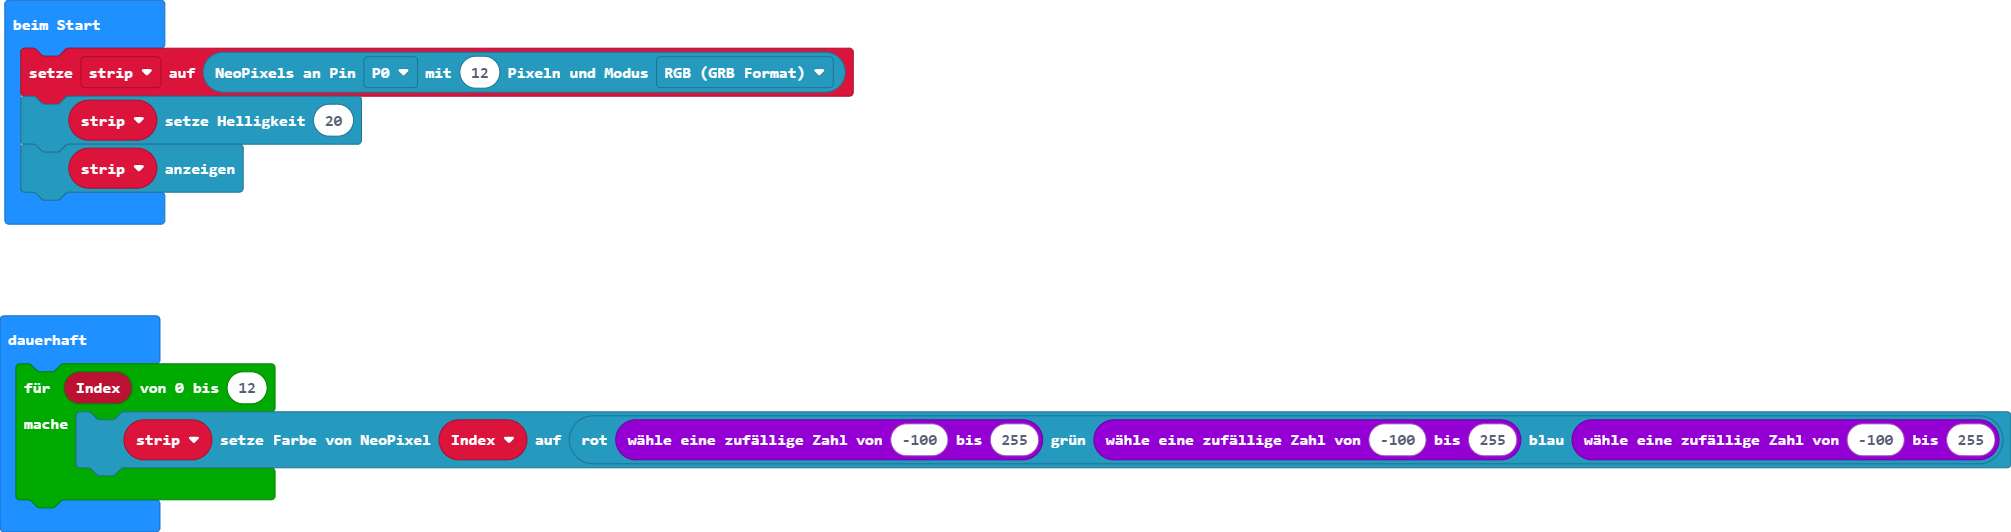
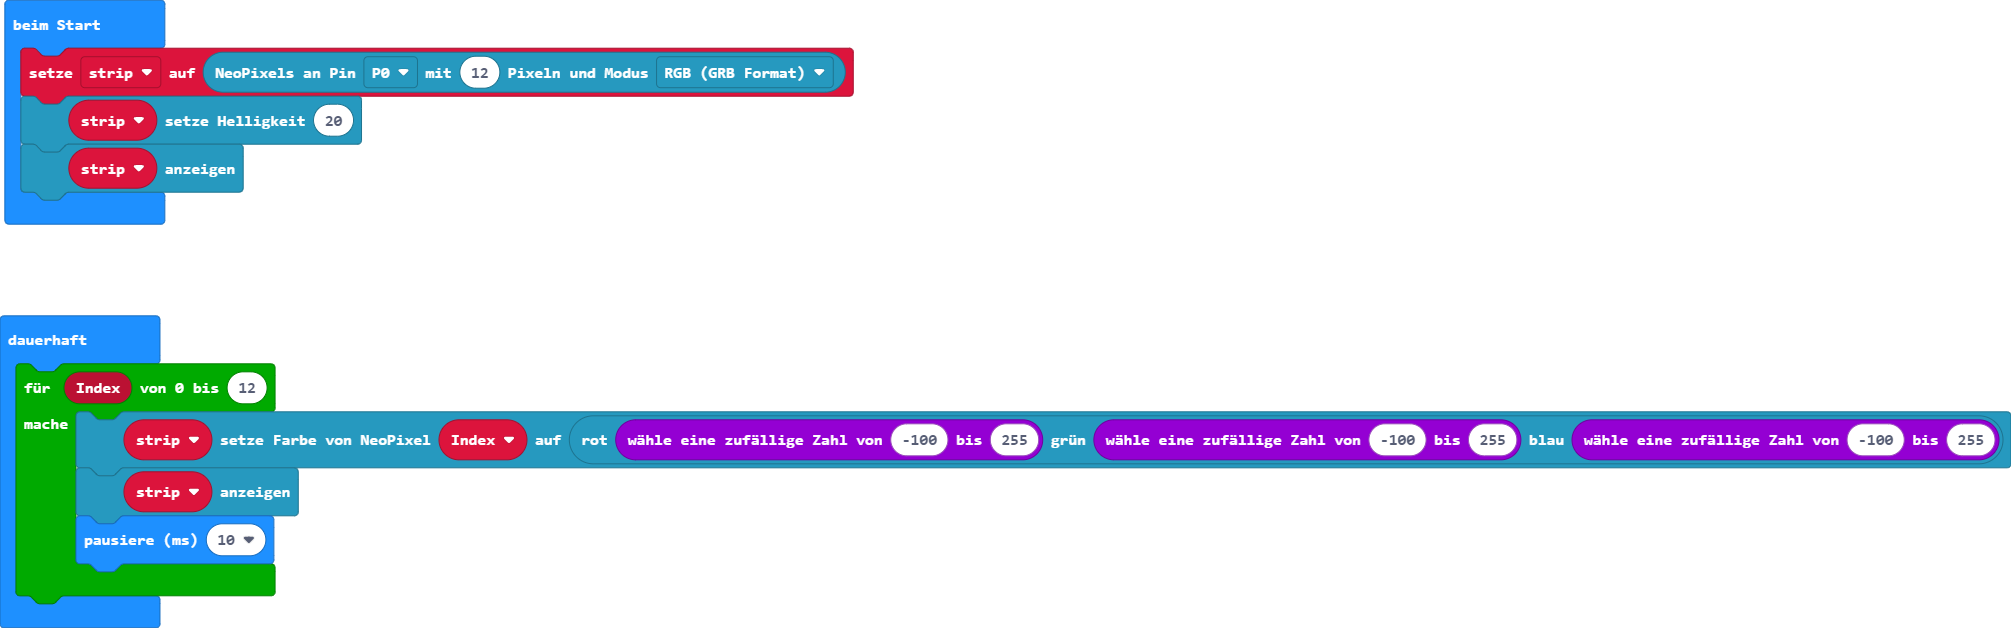
Aktualisiere main.blocks, main.ts

Changed region(s): [[0.0, 0.4812, 1.0, 0.9624], [0.0, 0.0301, 0.4316, 0.4211]]

diff --git a/main.ts b/main.ts
@@ -4,5 +4,7 @@ strip.show()
 basic.forever(function () {
     for (let Index = 0; Index <= 12; Index++) {
         strip.setPixelColor(Index, neopixel.rgb(randint(-100, 255), randint(-100, 255), randint(-100, 255)))
+        strip.show()
+        basic.pause(10)
     }
 })
